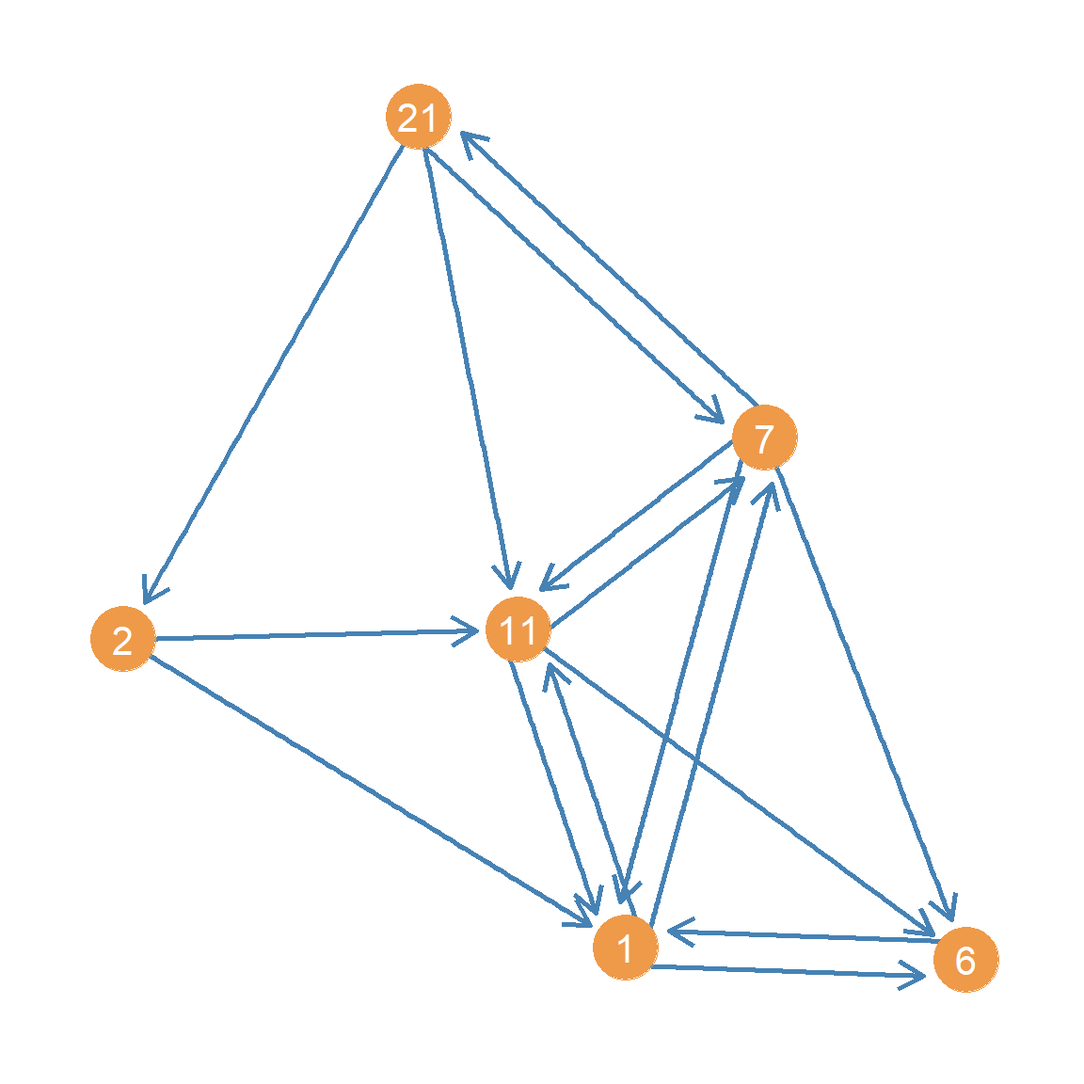
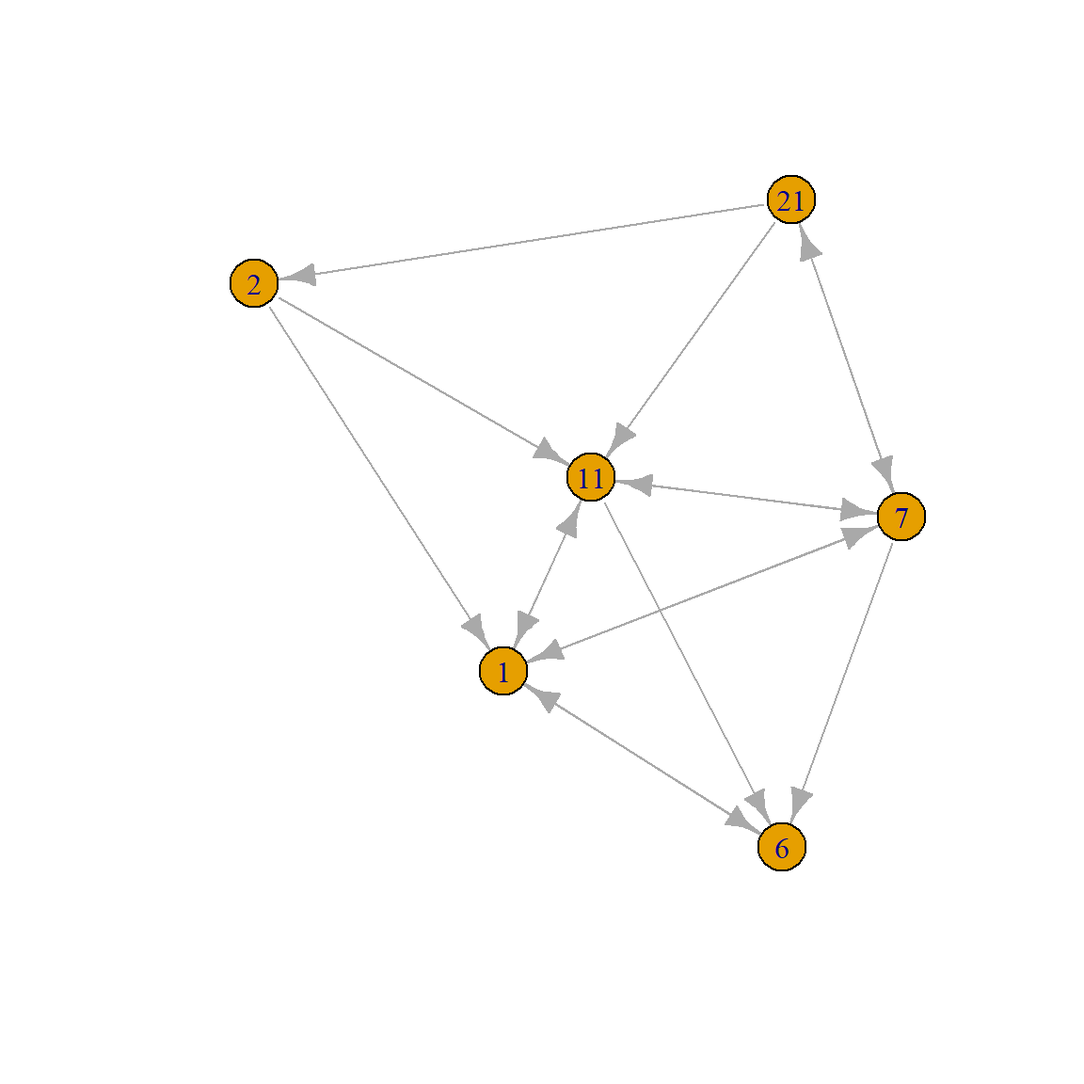
ooff

diff --git a/docs/prestige.html b/docs/prestige.html
@@ -439,18 +439,31 @@ div.csl-indent {
 <span id="cb1-2"><a href="#cb1-2"></a>   <span class="fu">library</span>(igraph)</span>
 <span id="cb1-3"><a href="#cb1-3"></a>   g <span class="ot">&lt;-</span> <span class="fu">as_undirected</span>(ht_friends, <span class="at">mode =</span> <span class="st">"collapse"</span>)</span></code><button title="Copy to Clipboard" class="code-copy-button"><i class="bi"></i></button></pre></div>
 </div>
-<p>This is what the network looks like:</p>
-<div class="cell">
-<div class="cell-output-display">
-<div class="quarto-figure quarto-figure-center">
+<p>The undirected friendship network is shown in <a href="#fig-krack-1">Figure&nbsp;1 (a)</a>.</p>
+<div id="fig-krack" class="cell quarto-layout-panel">
 <figure class="figure">
-<p><img src="prestige_files/figure-html/unnamed-chunk-2-1.png" class="img-fluid figure-img" width="672"></p>
-<p></p><figcaption class="figure-caption">Krackhardt’s Managers Friendship Network (Undirected)</figcaption><p></p>
+<div class="quarto-layout-row quarto-layout-valign-top">
+<div class="cell-output-display quarto-layout-cell quarto-layout-cell-subref" style="flex-basis: 50.0%;justify-content: center;">
+<div id="fig-krack-1" class="quarto-figure quarto-figure-center anchored">
+<figure class="figure">
+<p><img src="prestige_files/figure-html/fig-krack-1.png" class="img-fluid figure-img" data-ref-parent="fig-krack" width="768"></p>
+<p></p><figcaption class="figure-caption">(a) Friendship (Undirected)</figcaption><p></p>
+</figure>
+</div>
+</div>
+<div class="cell-output-display quarto-layout-cell quarto-layout-cell-subref" style="flex-basis: 50.0%;justify-content: center;">
+<div id="fig-krack-2" class="quarto-figure quarto-figure-center anchored">
+<figure class="figure">
+<p><img src="prestige_files/figure-html/fig-krack-2.png" class="img-fluid figure-img" data-ref-parent="fig-krack" width="768"></p>
+<p></p><figcaption class="figure-caption">(b) Advice (directed)</figcaption><p></p>
 </figure>
 </div>
 </div>
 </div>
-<p>We extract the adjacency matrix corresponding to this network:</p>
+<p></p><figcaption class="figure-caption">Figure&nbsp;1: Krackhardt’s managers network</figcaption><p></p>
+</figure>
+</div>
+<p>We then extract the adjacency matrix corresponding to this network:</p>
 <div class="cell">
 <div class="sourceCode cell-code" id="cb2"><pre class="sourceCode numberSource r number-lines code-with-copy"><code class="sourceCode r"><span id="cb2-1"><a href="#cb2-1"></a>   A <span class="ot">&lt;-</span> <span class="fu">as.matrix</span>(<span class="fu">as_adjacency_matrix</span>(g))</span></code><button title="Copy to Clipboard" class="code-copy-button"><i class="bi"></i></button></pre></div>
 </div>
@@ -838,36 +851,36 @@ div.csl-indent {
 <div class="cell">
 <div class="sourceCode cell-code" id="cb38"><pre class="sourceCode numberSource r number-lines code-with-copy"><code class="sourceCode r"><span id="cb38-1"><a href="#cb38-1"></a>   <span class="fu">markov.chain1</span>(P)</span></code><button title="Copy to Clipboard" class="code-copy-button"><i class="bi"></i></button></pre></div>
 <div class="cell-output cell-output-stdout">
-<pre><code>  [1] 11  1 17 15  5 19  3 11 20 18 20 19  5  2 11  5 21 18 20 17 20 18 21 17  3
- [26] 14  5 21  5 11  1 19  3 14  5  9 11 20 10 16 17  3 10  5 13 11 18 11 20 10
- [51] 17 15  9 10  3 17  7  6  7  6 21 17  1  2 16  2  4 16 10  9  6 12 10 20 11
- [76]  1 15 11  3 17 21 12  4  8 11  4  8 11  3 10 17 11 17  4  1 11 20 18  2 16</code></pre>
+<pre><code>  [1] 12  4  2  4  2 17 11 15 19  5  2 16 17  4  2 16  4 16  1 12 10 16 10 12 17
+ [26] 19 17 11 13 11 15 19 20 10 16  4 11 20 10 16  2  1  2  5 10 17  7  6  9  5
+ [51] 21 18 11  5  9 15  5  2 18 21  2 16  4 17 11  4 12 10  5 11 12  4 11  3 17
+ [76]  5 11  4  1 15  1 16  1  4  8 17  8 11 15  3 11  2 11  2  4 11  1 11  5 17</code></pre>
 </div>
 </div>
 <p>We can of course create a longer one by changing the <code>q</code> argument while setting the seed node to 5:</p>
 <div class="cell">
 <div class="sourceCode cell-code" id="cb40"><pre class="sourceCode numberSource r number-lines code-with-copy"><code class="sourceCode r"><span id="cb40-1"><a href="#cb40-1"></a>   <span class="fu">markov.chain1</span>(P, <span class="at">q =</span> <span class="dv">500</span>, <span class="at">seed =</span> <span class="dv">5</span>)</span></code><button title="Copy to Clipboard" class="code-copy-button"><i class="bi"></i></button></pre></div>
 <div class="cell-output cell-output-stdout">
-<pre><code>  [1]  2  6  2  4 17  7 14  7  6 21 12  6  2  6 12 21  2  5  9 11  4 17  2 21  2
- [26]  6 21 12 11  8 17 14  5  2  6  9 10  9  6  9 15  5  9 17  9 15 11  3 19  5
- [51] 14  7  6 17 10  3 19  3 11  2  4  8  4 17 10  9 11 15  6  2  1 17  5 13 11
- [76] 12 10 17 16  4 17 16  2 21  5 17 19 11 20 10  8 11 13 11  8  4  8  4 11  1
-[101] 17 10  3 11 20 17  4  1 16 10 16 17  1 11  2  5  2  1 15  1 17  7 14  5 19
-[126]  5 10 20 17  5 14  3 11 18 20 10  9 17  4  2 11  9  6  9  5 21  5 10 20 17
-[151] 19 17 19  2  4 16  4 11  3 17 21 12  1 19  2 16  2 19 14 17 14 15 19 20 18
-[176] 20 19  3 11 17 21 12 17 12  6  7 17  8 11 20 17 11  8 10  8  1 11  3 10 17
-[201] 16  1  8 11  9 10  5  9  5 10  5 14  7 14 19  5 13 11  1 19 11 18 21  6  7
-[226] 17 15  3 14 19  2  5 10  3 11  8 10  8 11  2  6 17  9 11 13 11 18 11  1  2
-[251] 19  2 17  5 14 17  1  4 11 20 10  5 17 12 11  1 15 11 20 17  9 15  1  2 17
-[276]  3 17 21 12 21  5  2 21  6 12 11  2 11 12  6 17  6 12  6  7  6 15  1 19  3
-[301] 14  7  6  9  6  9  5  2  1 11 12 21 12  6 15  1 16  4 17 11 12 17  2 18 11
-[326] 12 11  3 11 12  1 19 14  7 17  8 11 15 14 15 17 16 10  5 10  3 11 12 21  2
-[351]  4 16 17 12 19  3 17 20 19 20 18 21 17  3 17  6 12 19  2 16 17 16 10  3 10
-[376]  9 11 12 10  9 10  3 14  3 17  9 15 14 19  5  2 16  1 19 17 12 21 17  8 11
-[401]  9 10  9 15 11 12  6 12 10  8  1 19 20 17  8  1 17  3 10 16 17 15  1  8 10
-[426] 16  4 12  6  9 10  5 13 11 18  2  4  2 19 11 17  9 17  6 15  3 11  1 16  4
-[451]  1 19 14  5  2 11  1 12 17 21 18  2  4 16 10  3 19  5 13  5 13 11 13  5  9
-[476] 17 12 11  8 10  5 11  9 15 11  1 15  3 17 12 19  5  2  4  2 21 12  6 12  4</code></pre>
+<pre><code>  [1] 13 11  8 17  2  1  4 17 12  4  1  2 16  1  8 17  9 10  8  1 16 10  8 10 17
+ [26]  3 19 14 19 20 17 14  7  6 21 17 12  6 15 19 15  3 19  3 14  7 17  8  4 12
+ [51]  1 19  5 17 20 11 19  5 21 17  7 17  5 13  5 10  5  9 10  8 10 20 18 21 18
+ [76] 21 12 17  4  1 12  1  4 11 13 11  3 11 17 12  6 12 17  6 12 11 20 17  6 21
+[101]  6 17  8  1  4 12  4  1 12  4 12 19 12 21  5 14 15 11  9  5 13 11 20 18 21
+[126]  6  7  6  7  6 15 14 15 19  5 15 19 17 20 17 14 19  1 16 17  4  8  4  8 10
+[151] 17 12 19 12 17 15 19 14  7 17 15 11 19  3 14 15 14  7 17 19 11  4  2 18  2
+[176] 17  5 19 12  1  8 10  9  6 17 20 11 17  8  4 11  2  5  2  4 17  7 17  1 19
+[201]  3 14 15  1 16 10 16  1 17  8 17  8 11 17 11 13 11 20 18 11  9 17 14 15  3
+[226] 19 15 17 21 17 16 17 12  6 12 19  5 21 17  8 17 10  5 17 19 14  7 17 15  9
+[251]  6  7  6  7 17 15  1  2 19 20 18 11  8  1 16  1 12 10  5  9  5 21  2 17  3
+[276] 15 14  7  6 21  5 17  5 15  5 17  9 15  1  8 17 20 18 11 18  2  5 11 13  5
+[301]  2  5 19  3 10 16 17 15  9 10 16  4  8 10  8  4 17 19 20 10 17  1 17 16 10
+[326]  9 11 19 14 17  6 15  1 11  2  1 16  1 11  9 15  6 21  6  9  5  2 19  5  2
+[351] 16  1 19  2 19  1 16 10 16  2  4 11 15 17 21  2  1 15  6  9 10 20 10 12 19
+[376] 20 11 19 17 12  6 12 10 20 11  5 11  4  8 10  9  5 21  6 21 12  6  2  1 15
+[401]  1  4  2 17  3 17  4  1 17  3 11  4 11  2 11 20 11  2  5 10  8 11 13 11 18
+[426] 21 12 11 13  5 15 11  8  1  4  8  4 12 10 17 19  5  9 17  2 19 17 12 10  9
+[451] 17 20 19 11 13  5 17  2 16 10 20 17  8 11 13 11 18  2  4 17  5 13 11 12 17
+[476] 19  3 10  8  1 11 12 10 16  2 11  1 12  6  9 17 11 18  2 18  2  6 21  2 19</code></pre>
 </div>
 </div>
 <p>Note that one thing that happens here is that the rumor goes through some nodes more often than others. Another thing that you may be thinking is that the odds that a node will keep repeating itself in this chain has to do with how many neighbors they have since that increases the chances that they will be chosen in the <code>sample</code> line of the function. If you think that, you will be right!</p>
@@ -881,7 +894,7 @@ div.csl-indent {
 <span id="cb42-5"><a href="#cb42-5"></a>   <span class="fu">round</span>(p, <span class="dv">2</span>)</span></code><button title="Copy to Clipboard" class="code-copy-button"><i class="bi"></i></button></pre></div>
 <div class="cell-output cell-output-stdout">
 <pre><code>   1    2    3    4    5    6    7    8    9   10   11   12   13   14   15   16 
-0.06 0.06 0.04 0.04 0.06 0.04 0.02 0.03 0.04 0.05 0.09 0.05 0.01 0.04 0.06 0.03 
+0.06 0.06 0.04 0.04 0.06 0.05 0.02 0.03 0.04 0.05 0.09 0.05 0.01 0.04 0.06 0.03 
   17   18   19   20   21 
 0.11 0.03 0.06 0.03 0.04 </code></pre>
 </div>
@@ -892,9 +905,9 @@ div.csl-indent {
 <div class="cell-output cell-output-stdout">
 <pre><code>states
    1    2    3    4    5    6    7    8    9   10   11   12   13   14   15   16 
-2915 3197 1872 2203 3090 2218  974 1566 1938 2501 4408 2544  643 1890 2890 1549 
+2808 3190 1947 2173 3156 2255  919 1531 1935 2512 4476 2622  651 1865 2873 1516 
   17   18   19   20   21 
-5629 1336 3151 1562 1924 </code></pre>
+5572 1301 3212 1586 1900 </code></pre>
 </div>
 </div>
 <p>Finally, line 4 divides these numbers by the length of the chain to get the probability.</p>
@@ -927,11 +940,11 @@ div.csl-indent {
 <div class="sourceCode cell-code" id="cb49"><pre class="sourceCode numberSource r number-lines code-with-copy"><code class="sourceCode r"><span id="cb49-1"><a href="#cb49-1"></a>   <span class="fu">markov.chain2</span>(P, <span class="at">q =</span> <span class="dv">500</span>)</span></code><button title="Copy to Clipboard" class="code-copy-button"><i class="bi"></i></button></pre></div>
 <div class="cell-output cell-output-stdout">
 <pre><code>      1       2       3       4       5       6       7       8       9      10 
-0.05830 0.06394 0.03744 0.04406 0.06180 0.04436 0.01948 0.03132 0.03876 0.05002 
+0.05616 0.06380 0.03894 0.04346 0.06312 0.04510 0.01838 0.03062 0.03870 0.05024 
      11      12      13      14      15      16      17      18      19      20 
-0.08816 0.05088 0.01286 0.03780 0.05780 0.03098 0.11258 0.02672 0.06302 0.03124 
+0.08952 0.05244 0.01302 0.03730 0.05746 0.03032 0.11144 0.02602 0.06424 0.03172 
      21 
-0.03848 </code></pre>
+0.03800 </code></pre>
 </div>
 </div>
 <p>There is another way to compute these probabilities more directly from the <span class="math inline">\(\mathbf{P}\)</span> matrix. The basic idea is that at any time <span class="math inline">\(t\)</span>, the distribution of probabilities across nodes in the network stored in the vector <span class="math inline">\(\mathbf{x}\)</span> is given by:</p>
@@ -984,17 +997,18 @@ div.csl-indent {
 </section>
 <section id="pagerank-with-damping-and-teleportation-in-directed-graphs" class="level2">
 <h2 class="anchored" data-anchor-id="pagerank-with-damping-and-teleportation-in-directed-graphs">PageRank with Damping and Teleportation in Directed Graphs</h2>
-<p>PageRank of course was designed to deal with <strong>directed graphs</strong> (like the World Wide Web). So let’s load up the version of the Krackhardt’s Managers data that contains the <strong>advice network</strong> which is an unambiguously directed relation.</p>
+<p>PageRank of course was designed to deal with <strong>directed graphs</strong> (like the World Wide Web). So let’s load up the version of the Krackhardt’s Managers data that contains the <strong>advice network</strong> which is an unambiguously directed relation. A</p>
 <div class="cell">
 <div class="sourceCode cell-code" id="cb56"><pre class="sourceCode numberSource r number-lines code-with-copy"><code class="sourceCode r"><span id="cb56-1"><a href="#cb56-1"></a>   g <span class="ot">&lt;-</span> ht_advice</span>
 <span id="cb56-2"><a href="#cb56-2"></a>   A <span class="ot">&lt;-</span> <span class="fu">as.matrix</span>(<span class="fu">as_adjacency_matrix</span>(g))</span></code><button title="Copy to Clipboard" class="code-copy-button"><i class="bi"></i></button></pre></div>
 </div>
-<p>We then compute the <span class="math inline">\(\mathbf{P}\)</span> matrix:</p>
+<p>A plot of the advice network is shown in <a href="#fig-krack-2">Figure&nbsp;1 (b)</a>.</p>
+<p>We then compute the <span class="math inline">\(\mathbf{P}\)</span> matrix corresponding to this network:</p>
 <div class="cell">
 <div class="sourceCode cell-code" id="cb57"><pre class="sourceCode numberSource r number-lines code-with-copy"><code class="sourceCode r"><span id="cb57-1"><a href="#cb57-1"></a>   D.o <span class="ot">&lt;-</span> <span class="fu">diag</span>(<span class="dv">1</span><span class="sc">/</span><span class="fu">rowSums</span>(A))</span>
 <span id="cb57-2"><a href="#cb57-2"></a>   P <span class="ot">&lt;-</span> D.o <span class="sc">%*%</span> A </span></code><button title="Copy to Clipboard" class="code-copy-button"><i class="bi"></i></button></pre></div>
 </div>
-<p>One issue that arises is that there could be nodes with no out-neighbors (so-called sink nodes) or like node 6 above, who has just one out-neighbor (e.g., seeks advice from just one person), in which case the probability is 1.0 that if the random walker is at node 6 it will go to node 21.</p>
+<p>One issue that arises in computing the <span class="math inline">\(\mathbf{P}\)</span> for directed graphs is that there could be nodes with no out-neighbors (so-called sink nodes) or like node 6 in <a href="#fig-krack-2">Figure&nbsp;1 (b)</a>, who has just one out-neighbor (e.g., seeks advice from just one person), in which case the probability is 1.0 that if the random walker is at node 6 it will go to node 21.</p>
 <p>To avoid this issue the original designers of the PageRank algorithm <span class="citation" data-cites="brin_page98">(<a href="#ref-brin_page98" role="doc-biblioref">Brin and Page 1998</a>)</span> added a “fudge” factor: That is, with probability <span class="math inline">\(\alpha\)</span> the random walker should hop from node to node following the directed links in the graph. But once in a while with probability <span class="math inline">\(1-\alpha\)</span> the walker should decide to “teleport” (with uniform probability) to <em>any</em> node in the graph whether it is an out-neighbor of the current node or not.</p>
 <p>How do we do that? Well we need to “fix” the <span class="math inline">\(\mathbf{P}\)</span> matrix to allow for such behavior. So instead of <span class="math inline">\(\mathbf{P}\)</span> we estimate our distributive status model on the matrix <span class="math inline">\(\mathbf{G}\)</span> (yes, for <strong>G</strong>oogle):</p>
 <p><span class="math display">\[
@@ -1043,7 +1057,7 @@ div.csl-indent {
 <p>So we need to make our status game a bit more complicated (but not too much) to account for this duality:</p>
 <div class="cell">
 <div class="sourceCode cell-code" id="cb63"><pre class="sourceCode numberSource r number-lines code-with-copy"><code class="sourceCode r"><span id="cb63-1"><a href="#cb63-1"></a>   status2 <span class="ot">&lt;-</span> <span class="cf">function</span>(w) {</span>
-<span id="cb63-2"><a href="#cb63-2"></a>     a <span class="ot">&lt;-</span> <span class="fu">rep</span>(<span class="dv">1</span>, <span class="fu">nrow</span>(w))  <span class="co">#initializing authority scores</span></span>
+<span id="cb63-2"><a href="#cb63-2"></a>     a <span class="ot">&lt;-</span> <span class="fu">rep</span>(<span class="dv">1</span><span class="sc">/</span><span class="fu">nrow</span>(w), <span class="fu">nrow</span>(w))  <span class="co">#initializing authority scores</span></span>
 <span id="cb63-3"><a href="#cb63-3"></a>     d <span class="ot">&lt;-</span> <span class="dv">1</span> <span class="co">#initializing delta</span></span>
 <span id="cb63-4"><a href="#cb63-4"></a>     k <span class="ot">&lt;-</span> <span class="dv">0</span> <span class="co">#initializing counter</span></span>
 <span id="cb63-5"><a href="#cb63-5"></a>     <span class="cf">while</span> (d <span class="sc">&gt;=</span> <span class="fl">1e-10</span>) {</span>
@@ -1058,7 +1072,7 @@ div.csl-indent {
 <span id="cb63-14"><a href="#cb63-14"></a>   <span class="fu">return</span>(<span class="fu">list</span>(<span class="at">h =</span> <span class="fu">as.vector</span>(h), <span class="at">a =</span> <span class="fu">as.vector</span>(a), <span class="at">k =</span> k))</span>
 <span id="cb63-15"><a href="#cb63-15"></a>   }</span></code><button title="Copy to Clipboard" class="code-copy-button"><i class="bi"></i></button></pre></div>
 </div>
-<p>Everything is like our previous <code>status1</code> function except now we are keeping track of two mutually defining scores <code>a</code> and <code>h</code>. We first initialize the authority scores by setting them to the value of <span class="math inline">\(1/n\)</span> (where <span class="math inline">\(n\)</span> is the number of nodes) in line 2. We then initialize the <span class="math inline">\(\delta\)</span> difference and <span class="math inline">\(k\)</span> counter in lines 3-4. The <code>while</code> loop in lines 5-13 then update the hub scores (to be the sum of the authority scores of each out-neighbor) in line 7 normalize them in line 8 and update the new authority scores to be the sum (across each in-neighbor) of these new hub scores.</p>
+<p>Everything is like our previous <code>status1</code> function except now we are keeping track of two mutually defining scores <code>a</code> and <code>h</code>. We first initialize the authority scores by setting them to the value of <span class="math inline">\(1/n\)</span> (where <span class="math inline">\(n\)</span> is the number of nodes or the number of rows in the adjacency matrix) in line 2. We then initialize the <span class="math inline">\(\delta\)</span> difference and <span class="math inline">\(k\)</span> counter in lines 3-4. The <code>while</code> loop in lines 5-13 then updates the hub scores (to be the sum of the authority scores of each out-neighbor) in line 7 normalize them in line 8 and update the new authority scores to be the sum (across each in-neighbor) of these new hub scores, which are then themselves normalized in line 10.</p>
 <p>So at each step <span class="math inline">\(t\)</span>, the authority and hub scores are calculated like this:</p>
 <p><span class="math display">\[  
    x^h_i(t) = \sum_j a_{ij} x^a_j(t-1)
@@ -1100,7 +1114,7 @@ div.csl-indent {
 </section>
 <section id="hubs-authorities-and-eigenvectors" class="level2">
 <h2 class="anchored" data-anchor-id="hubs-authorities-and-eigenvectors">Hubs, Authorities and Eigenvectors</h2>
-<p>Recall that both the eigenvector and PageRank status scores computed via the network status distribution game routine ended up being equivalent to the eigenvectors of a network proximity matrix (the adjacency matrix <span class="math inline">\(\mathbf{A}\)</span> and the probability matrix <span class="math inline">\(\mathbf{P}\)</span> respectively). It would be surprising if the same wasn’t true of the hub and authority status scores.</p>
+<p>Recall that both the eigenvector and PageRank status scores computed via the network status distribution game routine ended up being equivalent to the leading eigenvector of a network proximity matrix (the adjacency matrix <span class="math inline">\(\mathbf{A}\)</span> and the probability matrix <span class="math inline">\(\mathbf{P}\)</span> respectively). It would be surprising if the same wasn’t true of the hub and authority status scores.</p>
 <p>Let’s find out which ones!</p>
 <p>Consider the matrices:</p>
 <p><span class="math display">\[
@@ -1157,13 +1171,21 @@ div.csl-indent {
 </div>
 </div>
 <p>Which means that the <em>off-diagonals</em> cells of each matrix <span class="math inline">\(m_{ij}\)</span> and <span class="math inline">\(n_{ij}\)</span>, contain the <strong>common out-neighbors</strong> and <strong>common in-neighbors</strong> shared by nodes <span class="math inline">\(i\)</span> and <span class="math inline">\(j\)</span> in the graph, respectively.</p>
-<p>In information science, <span class="math inline">\(\mathbf{M}_h\)</span> and <span class="math inline">\(\mathbf{M}_a\)</span> matrices have special interpretations. Consider the subgraph shown in <a href="#fig-sub">Figure&nbsp;1</a>, which contains nodes 2 and 11 from the Krackhardt advice network and their respective neighbors:</p>
+<p>In information science, <span class="math inline">\(\mathbf{M}_h\)</span> and <span class="math inline">\(\mathbf{M}_a\)</span> matrices have special interpretations. Consider the subgraph shown in <strong>?@fig-sub</strong>, which contains nodes 2 and 11 from the Krackhardt advice network and their respective neighbors:</p>
 <div class="cell">
 <div class="cell-output-display">
-<div id="fig-sub" class="quarto-figure quarto-figure-center anchored">
+<div id="fig-sub-1" class="quarto-figure quarto-figure-center anchored">
 <figure class="figure">
 <p><img src="prestige_files/figure-html/fig-sub-1.png" class="img-fluid figure-img" width="576"></p>
-<p></p><figcaption class="figure-caption">Figure&nbsp;1: Subgraph from Krackhardt’s Managers Network.</figcaption><p></p>
+<p></p><figcaption class="figure-caption">Figure&nbsp;2: Subgraph from Krackhardt’s Managers Network.</figcaption><p></p>
+</figure>
+</div>
+</div>
+<div class="cell-output-display">
+<div id="fig-sub-2" class="quarto-figure quarto-figure-center anchored">
+<figure class="figure">
+<p><img src="prestige_files/figure-html/fig-sub-2.png" class="img-fluid figure-img" width="576"></p>
+<p></p><figcaption class="figure-caption">Figure&nbsp;3: Subgraph from Krackhardt’s Managers Network.</figcaption><p></p>
 </figure>
 </div>
 </div>
@@ -1303,7 +1325,7 @@ div.csl-indent {
 <p><span class="citation" data-cites="saerens_fouss05">Saerens and Fouss (<a href="#ref-saerens_fouss05" role="doc-biblioref">2005</a>)</span> argue that there is an intimate relationship between the HITS dual ranking scores and one of the most widely used multivariate analysis techniques, Principal Components Analysis (PCA).</p>
 <p>In fact, they argue that HITS is just PCA on an <em>uncentered data matrix</em> (which in the this case is the network’s adjacency matrix). Technically we could also just argue that PCA is just HITS on a <strong>centered adjacency matrix</strong>, as we will see in just a bit.</p>
 <p>Let’s see how this works. First, let’s create a <em>centered</em> version of the network adjacency matrix. To center a typical data matrix (e.g., of individuals in the rows by variables in the columns) we subtract the column mean (the average score of all individuals on that variable) from each individual’s score.</p>
-<p>So to get the centered network adjacency matrix, we first need to compute the corresponding <strong>column means</strong> of the matrix. Note that this will be equivalent to each individual’s <strong>indegree</strong> (the sum of the columns) divided by the total number of nodes in the network (<span class="math inline">\(k^{in}/n\)</span>), which is kind of a normalized degree centrality score, except the usual normalizatio is to divide by <span class="math inline">\(n-1\)</span> as we saw in our discussion of <a href="./centrality.html">centrality</a>.</p>
+<p>So to get the centered network adjacency matrix, we first need to compute the corresponding <strong>column means</strong> of the matrix. Note that this will be equivalent to each individual’s <strong>indegree</strong> (the sum of the columns) divided by the total number of nodes in the network (<span class="math inline">\(k^{in}/n\)</span>), which is kind of a normalized degree centrality score, except the usual normalization is to divide by <span class="math inline">\(n-1\)</span> (so as to have a maximume of 1.0) as we saw in our discussion of <a href="./centrality.html">centrality</a>.</p>
 <p>First, let’s compute the column means vector, using the native <code>R</code> function <code>colMeans</code> which takes a matrix as input and returns a vector of column means:</p>
 <div class="cell">
 <div class="sourceCode cell-code" id="cb107"><pre class="sourceCode numberSource r number-lines code-with-copy"><code class="sourceCode r"><span id="cb107-1"><a href="#cb107-1"></a>   cm <span class="ot">&lt;-</span> <span class="fu">colMeans</span>(A)</span>
@@ -1317,7 +1339,7 @@ div.csl-indent {
 <div class="cell">
 <div class="sourceCode cell-code" id="cb109"><pre class="sourceCode numberSource r number-lines code-with-copy"><code class="sourceCode r"><span id="cb109-1"><a href="#cb109-1"></a>   A.c <span class="ot">&lt;-</span> <span class="fu">t</span>(<span class="fu">t</span>(A) <span class="sc">-</span> cm)</span></code><button title="Copy to Clipboard" class="code-copy-button"><i class="bi"></i></button></pre></div>
 </div>
-<p>Note that to subtract the column mean vector from each column of the adjacency matrix we first transpose it, do the subtraction, and “untranspose” back. We can use the <code>colMeans</code> function to check that the column means of the centered adjacency matrix are indeed zero:</p>
+<p>Note that to subtract the column mean vector from each column of the adjacency matrix we first transpose it, do the subtraction, and “untranspose” back to the original (by taking the transpose of the transpose). We can use the <code>colMeans</code> function to check that the column means of the centered adjacency matrix are indeed zero:</p>
 <div class="cell">
 <div class="sourceCode cell-code" id="cb110"><pre class="sourceCode numberSource r number-lines code-with-copy"><code class="sourceCode r"><span id="cb110-1"><a href="#cb110-1"></a>   <span class="fu">round</span>(<span class="fu">colMeans</span>(A.c), <span class="dv">2</span>)</span></code><button title="Copy to Clipboard" class="code-copy-button"><i class="bi"></i></button></pre></div>
 <div class="cell-output cell-output-stdout">
@@ -1392,6 +1414,7 @@ div.csl-indent {
 </div>
 </div>
 <p>Which are indeed the same scores we obtained earlier when we played our status game on the centered adjacency matrix!</p>
+<p>We will see one way to interpret these scores in the next section.</p>
 </section>
 <section id="hits-and-salsa-versus-correspondence-analysis" class="level2">
 <h2 class="anchored" data-anchor-id="hits-and-salsa-versus-correspondence-analysis">HITS and SALSA versus Correspondence Analysis</h2>
@@ -1481,7 +1504,7 @@ div.csl-indent {
 </div>
 <p>Now, these scores don’t seem useless. They are different across each node; and like the PCA scores we obtained earlier, some are positive and some are negative.</p>
 <p><span class="citation" data-cites="fouss_etal04">Fouss, Renders, and Saerens (<a href="#ref-fouss_etal04" role="doc-biblioref">2004</a>)</span> show that these are the same scores you would obtain from a correspondence analysis (CA) of the original affiliation matrix.</p>
-<p>Let’s check that out in our case. The same package we used to compute the PCA of the adjacency matrix (<code>FactoMineR</code>)can be used to compute the correspondence analysis of any matrix in <code>R</code> using the function <code>CA</code>:</p>
+<p>Let’s check that out in our case. The same package we used to compute the PCA of the adjacency matrix (<code>FactoMineR</code>) can be used to compute the correspondence analysis of any matrix in <code>R</code>, including a network adjacency matrix, using the function <code>CA</code>:</p>
 <div class="cell">
 <div class="sourceCode cell-code" id="cb141"><pre class="sourceCode numberSource r number-lines code-with-copy"><code class="sourceCode r"><span id="cb141-1"><a href="#cb141-1"></a>   <span class="co">#library(FactoMineR)</span></span>
 <span id="cb141-2"><a href="#cb141-2"></a>   ca.res <span class="ot">&lt;-</span> <span class="fu">CA</span>(A, <span class="at">graph =</span> <span class="cn">FALSE</span>)</span>
@@ -1508,7 +1531,7 @@ div.csl-indent {
 </div>
 </div>
 <p>Which shows that indeed the CA scores are the same ones as we obtain from playing our status game on the corrected versions of the un-transposed SALSA hub and authorities matrices!</p>
-<p>But what are the CA scores supposed to capture? Let’s look at them side-by-side next to the SALSA hub and authority scores, as shown in <a href="#tbl-ha">Table&nbsp;1</a>.</p>
+<p>But what are the CA (and PCA) scores supposed to capture? Let’s look at them side-by-side next to the SALSA hub and authority scores, as shown in <a href="#tbl-ha">Table&nbsp;1</a> which has nodes rank ordered by their SALSA hub score.</p>
 <div class="cell">
 <div class="cell-output-display">
 <div id="tbl-ha" class="anchored">
@@ -1721,7 +1744,7 @@ div.csl-indent {
 </div>
 </div>
 </div>
-<p>Using information in <a href="#tbl-ha">Table&nbsp;1</a>, <a href="#fig-ca-1">Figure&nbsp;2 (a)</a> shows a point and line network plot but using the CA hub and authority scores to embed the nodes in a common two-dimensional space. In the plot nodes are colored by the <em>difference</em> between their SALSA hub and authority scores such that nodes with positive scores (hub score larger than their authority scores) appear in blue and nodes with negative scores (authority scores larger than their hub scores) appear in red.</p>
+<p>Using information in <a href="#tbl-ha">Table&nbsp;1</a>, <a href="#fig-ca-1">Figure&nbsp;4 (a)</a> shows a point and line network plot but using the CA hub and authority scores to embed the nodes in a common two-dimensional space. In the plot nodes are colored by the <em>difference</em> between their SALSA hub and authority scores such that nodes with positive scores (hub score larger than their authority scores) appear in blue and nodes with negative scores (authority scores larger than their hub scores) appear in red.</p>
 <div id="fig-ca" class="cell quarto-layout-panel">
 <figure class="figure">
 <div class="quarto-layout-row quarto-layout-valign-top">
@@ -1742,14 +1765,14 @@ div.csl-indent {
 </div>
 </div>
 </div>
-<p></p><figcaption class="figure-caption">Figure&nbsp;2: Krackhardt’s managers advice network (top hubs in blue and top authorities in red)</figcaption><p></p>
+<p></p><figcaption class="figure-caption">Figure&nbsp;4: Krackhardt’s managers advice network (top hubs in blue and top authorities in red)</figcaption><p></p>
 </figure>
 </div>
 <p>We can see that the CA hub score places the hubbiest of hubs (blue nodes) in the lower-right quadrant of the diagram, with positive CA hub scores and negative CA authority scores (this last multiplied by minus one from the ones shown above). Note from <a href="#tbl-ha">Table&nbsp;1</a>, that the nodes in this region (e.g.&nbsp;{15, 5, 3, 19, 9, 13}) all have large SALSA hub scores and very low SALSA authority scores.</p>
 <p>In the same way, the most authoritative of authorities (red nodes) appear in the upper-left side, with negative CA hub scores and positive CA authority scores. Note that nodes in this region have very large SALSA authority scores and very low SALSA hub scores.</p>
 <p>Finally, note that nodes in the upper-right quadrant of the diagram (e.g.&nbsp;{21, 7, 4, 18, 10}) are “ambidextrous” nodes, showcasing relatively large scores as both hubs and authorities according to SALSA.</p>
 <p>Thus what the CA scores seem to be doing is separating out the purest examples of hubs and authorities in the network from those who play both roles.</p>
-<p>Note that as shown in <a href="#fig-ca-2">Figure&nbsp;2 (b)</a>, we get an even stronger separation between hubs and authorities when using the PCA scores to place nodes in a common space, with all the authorities (except nodes 7 and 21) to the upper left, and the hubs on the right-hand side of the plot.</p>
+<p>Note that as shown in <a href="#fig-ca-2">Figure&nbsp;4 (b)</a>, we get an even stronger separation between hubs and authorities when using the PCA scores to place nodes in a common space, with all the authorities (except nodes 7 and 21) to the upper left, and the hubs on the right-hand side of the plot. So the PCA scores reflect the same distinction between hub and authority status as the CA scores.</p>
 </section>
 <section id="a-hybrid-pagerankhits-approach" class="level2">
 <h2 class="anchored" data-anchor-id="a-hybrid-pagerankhits-approach">A Hybrid PageRank/HITS Approach</h2>
